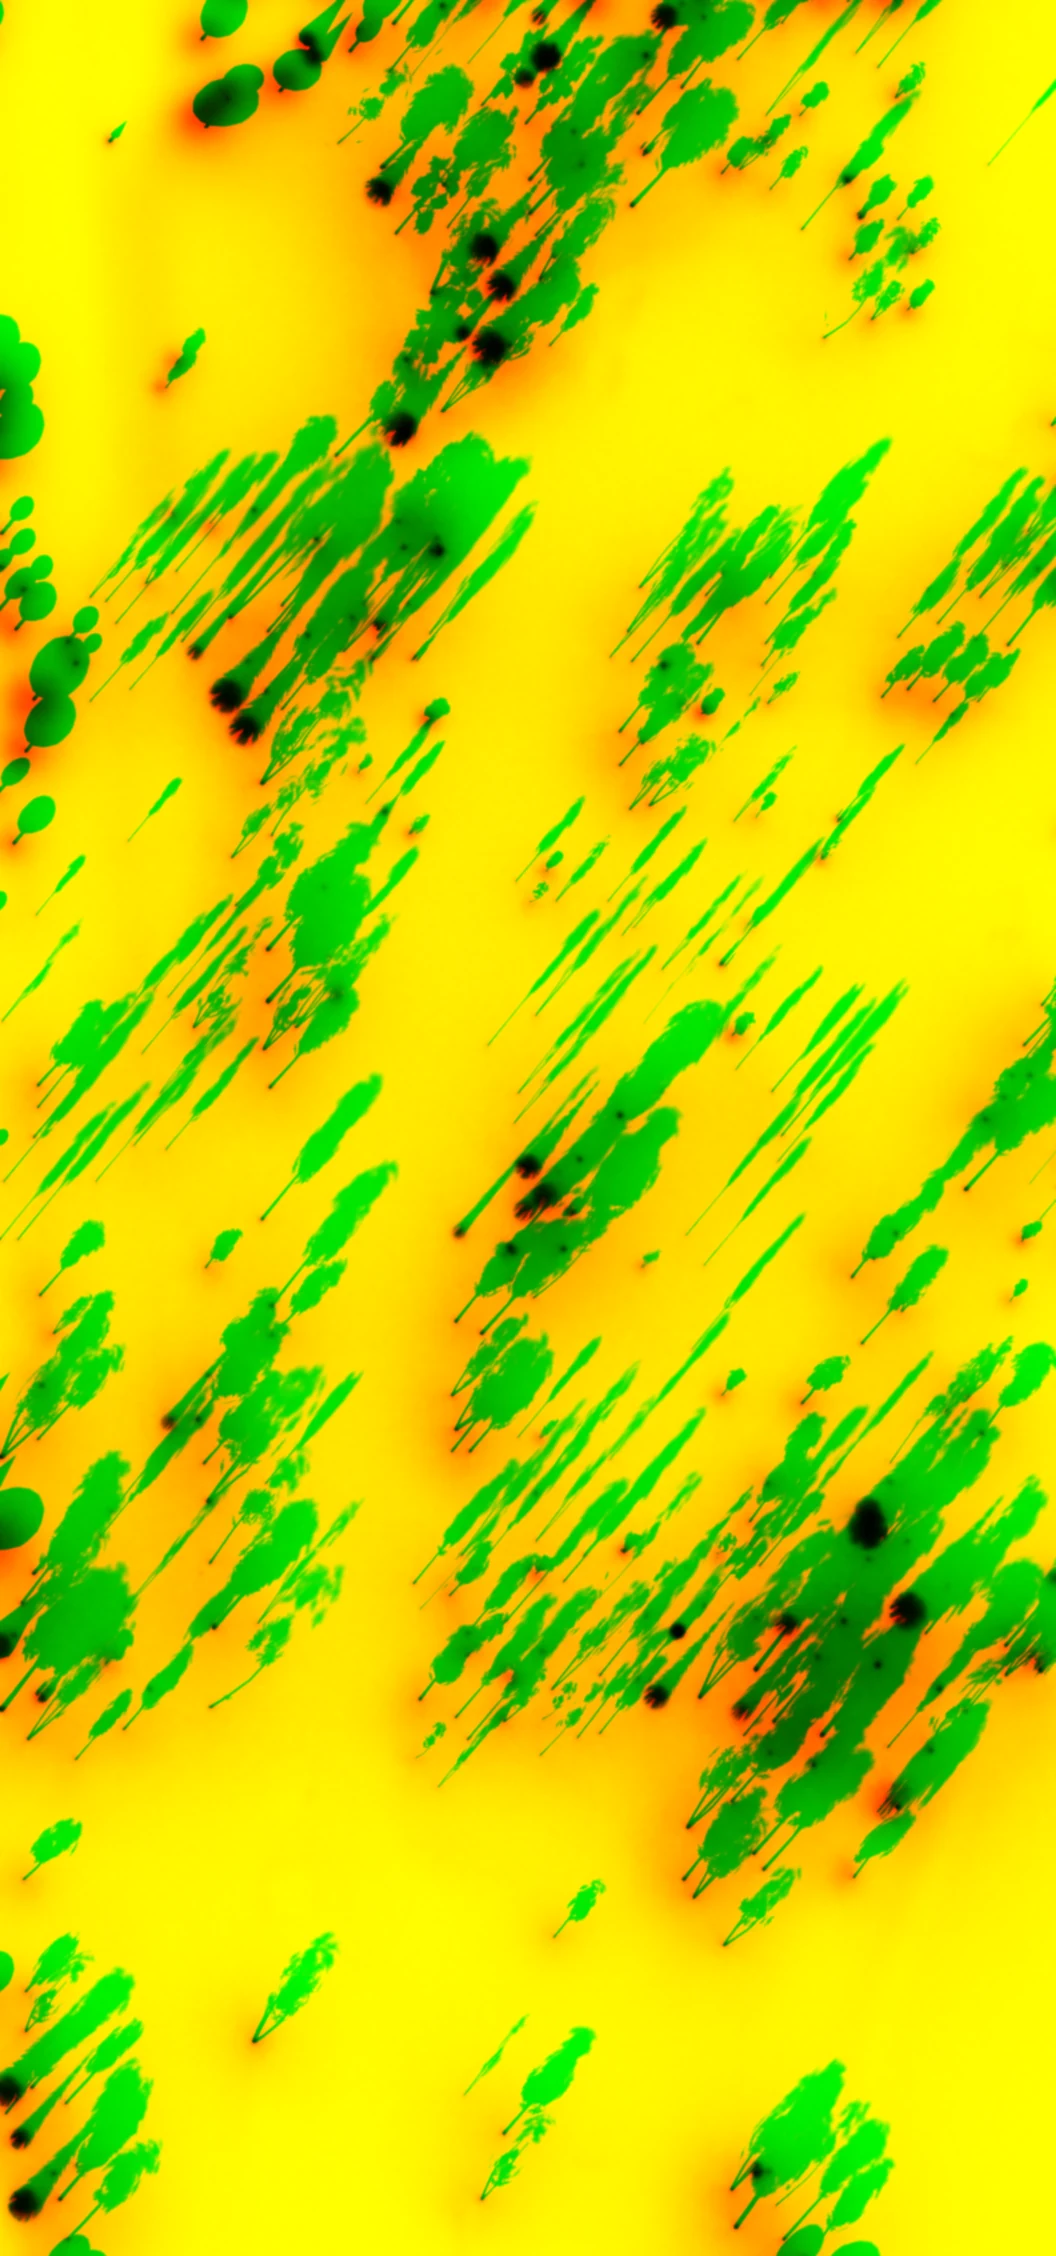
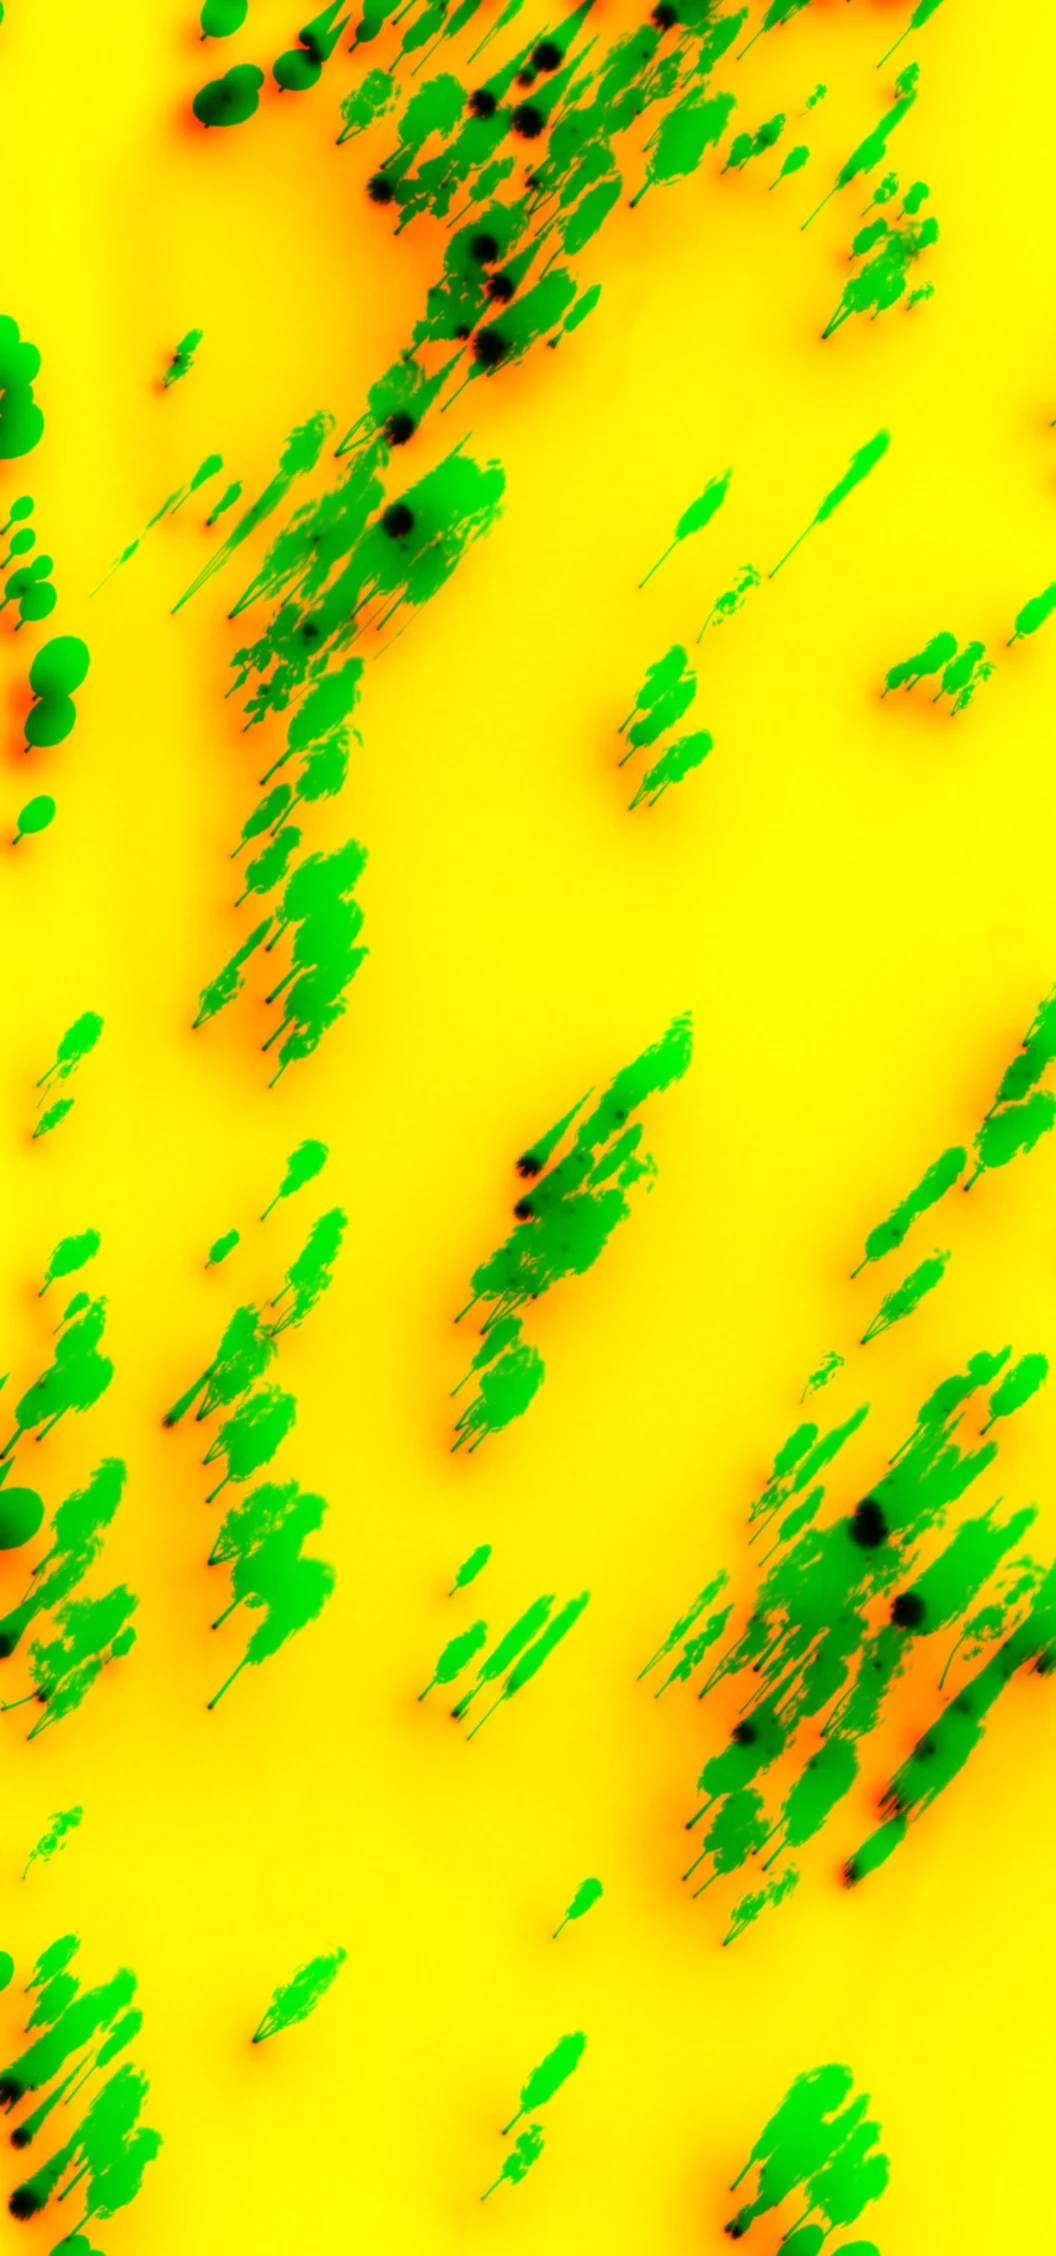
Blender light rebaked with the measured trees: jacks

diff --git a/index.html b/index.html
@@ -2,7 +2,7 @@
 <html lang="en">
 <head>
 <meta charset="utf-8">
-<meta name="gg-build" content="755242a7eb">
+<meta name="gg-build" content="960bd513f9">
 <meta name="viewport" content="width=device-width,initial-scale=1,viewport-fit=cover">
 <meta name="apple-mobile-web-app-capable" content="yes">
 <meta name="mobile-web-app-capable" content="yes">
@@ -1082,7 +1082,7 @@ window.THREE={ACESFilmicToneMapping:et,AddEquation:y,AddOperation:J,AdditiveAnim
 <script src="data/COURSE_IMG.js?v=23a6e18ef6"></script>
 <!-- /data files -->
 <!-- game code: tools/datafiles.py (the game is in src/) -->
-<script>(function(){var P=["src/start.js?v=d8ceba60e2","src/clubs-and-surfaces.js?v=175a1b0163","src/hole-construction-from-the.js?v=2abe9d5bd9","src/terrain-height.js?v=a37f63fe87","src/terrain-texture.js?v=a3e96548c6","src/lighting-shared-by-every.js?v=cd5a62476a","src/realism.js?v=aa16e80b0d","src/surroundings.js?v=74bd8e969d","src/built-things.js?v=f98fc21593","src/sky-dome.js?v=1c137437ce","src/webgl-ground.js?v=5d371faab8","src/state.js?v=0620065d3e","src/sound.js?v=e6a171fee3","src/ui-helpers.js?v=101dacc8d1","src/flow.js?v=395fe450d7","src/save-file.js?v=73a0901dda","src/daily-round.js?v=bb0fdaa373","src/a-golfer-s-daily.js?v=999de9775c","src/menu.js?v=58010d20df","src/pause-screen-and-feedback.js?v=b5ab620041","src/v107-help-and-faq.js?v=73740ead25","src/course-requests.js?v=1b264636bf","src/career.js?v=8c56e6444d","src/golfers.js?v=ac0e2525f8","src/match-state.js?v=7a407e7535","src/the-rival-s-shot.js?v=aedfc0dd26","src/career-screens.js?v=834dde70da","src/camera.js?v=72b4256890","src/3d-meshes.js?v=031d0e6eb9","src/divots.js?v=5d712295af","src/feel.js?v=cc5f67f75b","src/render.js?v=bbfcd83bef","src/choosing-a-golfer.js?v=59f6ffe37b","src/arm-ik.js?v=a254fdde50","src/real-tree-positions-from.js?v=0488c42a77","src/shader-patches-shared-by.js?v=1d67bace22","src/ground.js?v=95a21c663d","src/sky.js?v=cb305a137b","src/weather.js?v=1fc7d09e82","src/per-hole-scene-content.js?v=8522a6ceff","src/immediate-mode-primitives.js?v=0052447815","src/camera-straight-from-v.js?v=1bad554182","src/post-chain.js?v=d105739265","src/hud.js?v=49f3bf64c8","src/loop.js?v=25bd5af309","src/saved-shots.js?v=57bf3fbf0a","src/input.js?v=768869bb54","src/home-screen.js?v=124d004c02","src/sizing.js?v=67b1e861b4","src/boot.js?v=364c778f34"],t="",i,x;for(i=0;i<P.length;i++){x=new XMLHttpRequest();x.open("GET",P[i],false);x.send();if(x.status!==200&&x.status!==0)throw new Error("game code: could not load "+P[i]);t+=x.responseText;}var s=document.createElement("script");s.text="\n"+t+"//# sourceURL=game.js\n";document.currentScript.after(s);})();</script>
+<script>(function(){var P=["src/start.js?v=d8ceba60e2","src/clubs-and-surfaces.js?v=175a1b0163","src/hole-construction-from-the.js?v=2abe9d5bd9","src/terrain-height.js?v=a37f63fe87","src/terrain-texture.js?v=a3e96548c6","src/lighting-shared-by-every.js?v=cd5a62476a","src/realism.js?v=aa16e80b0d","src/surroundings.js?v=74bd8e969d","src/built-things.js?v=f98fc21593","src/sky-dome.js?v=1c137437ce","src/webgl-ground.js?v=5d371faab8","src/state.js?v=0620065d3e","src/sound.js?v=e6a171fee3","src/ui-helpers.js?v=101dacc8d1","src/flow.js?v=395fe450d7","src/save-file.js?v=73a0901dda","src/daily-round.js?v=cb2434a302","src/a-golfer-s-daily.js?v=999de9775c","src/menu.js?v=58010d20df","src/pause-screen-and-feedback.js?v=b5ab620041","src/v107-help-and-faq.js?v=73740ead25","src/course-requests.js?v=1b264636bf","src/career.js?v=8c56e6444d","src/golfers.js?v=ac0e2525f8","src/match-state.js?v=7a407e7535","src/the-rival-s-shot.js?v=aedfc0dd26","src/career-screens.js?v=834dde70da","src/camera.js?v=72b4256890","src/3d-meshes.js?v=031d0e6eb9","src/divots.js?v=5d712295af","src/feel.js?v=cc5f67f75b","src/render.js?v=bbfcd83bef","src/choosing-a-golfer.js?v=59f6ffe37b","src/arm-ik.js?v=a254fdde50","src/real-tree-positions-from.js?v=0488c42a77","src/shader-patches-shared-by.js?v=1d67bace22","src/ground.js?v=95a21c663d","src/sky.js?v=cb305a137b","src/weather.js?v=1fc7d09e82","src/per-hole-scene-content.js?v=8522a6ceff","src/immediate-mode-primitives.js?v=0052447815","src/camera-straight-from-v.js?v=1bad554182","src/post-chain.js?v=d105739265","src/hud.js?v=49f3bf64c8","src/loop.js?v=25bd5af309","src/saved-shots.js?v=57bf3fbf0a","src/input.js?v=768869bb54","src/home-screen.js?v=124d004c02","src/sizing.js?v=67b1e861b4","src/boot.js?v=364c778f34"],t="",i,x;for(i=0;i<P.length;i++){x=new XMLHttpRequest();x.open("GET",P[i],false);x.send();if(x.status!==200&&x.status!==0)throw new Error("game code: could not load "+P[i]);t+=x.responseText;}var s=document.createElement("script");s.text="\n"+t+"//# sourceURL=game.js\n";document.currentScript.after(s);})();</script>
 <!-- /game code -->
 
 <script>/* What's New. Add the newest update at the TOP of UPDATES; its id must be new each time. */

diff --git a/src/daily-round.js b/src/daily-round.js
@@ -79,7 +79,7 @@ function b10K(){const c=b10On()&&typeof B10BAKE!=='undefined'&&B10BAKE.courses?B
   if(c&&typeof tlOn==='function'&&tlOn()!==!!c.mt)return null;   // light baked with other trees than the ones standing (measured vs photo): live shadows instead
   return c&&c.holes?c.holes[G.hi]||null:null;}   // this hole's baked light (b: bounds, png)
 function b10Hole(){return !!b10K();}
-function b10Load(done){const L=['b10/bake.js?v=46','b10/trees.js?v=3'];window.B10LEAF='b10/leaves.webp?v=1';let n=L.length;for(const s of L){const e=document.createElement('script');e.src=s;e.onload=e.onerror=()=>{if(--n===0)done();};document.head.appendChild(e);}}
+function b10Load(done){const L=['b10/bake.js?v=47','b10/trees.js?v=3'];window.B10LEAF='b10/leaves.webp?v=1';let n=L.length;for(const s of L){const e=document.createElement('script');e.src=s;e.onload=e.onerror=()=>{if(--n===0)done();};document.head.appendChild(e);}}
 function b10Trees(P){const dec=(s,T)=>{const b=atob(s),u=new Uint8Array(b.length);for(let i=0;i<b.length;i++)u[i]=b.charCodeAt(i);return new T(u.buffer);};
   const arr=(r,st)=>{const Pp=dec(r.P,Int16Array),N=dec(r.N,Int8Array),C=dec(r.C,Uint8Array),U=r.U?dec(r.U,Int16Array):null,o=new Array(r.n*st);
     for(let i=0;i<r.n;i++){const k=i*st;o[k]=Pp[i*3]/1000;o[k+1]=Pp[i*3+1]/1000;o[k+2]=Pp[i*3+2]/1000;o[k+3]=N[i*3]/127;o[k+4]=N[i*3+1]/127;o[k+5]=N[i*3+2]/127;

diff --git a/sw.js b/sw.js
@@ -1,6 +1,6 @@
 /* Golf Go offline cache. The page is checked online first (so updates show straight away) and falls back to the copy on
    this phone; course data carries a version tag (?v=…) and is kept until it changes; leaderboards always go to the network. */
-const V='ca1661659b',B='755242a7eb',CORE='core-'+V,ASSETS='assets';
+const V='5129a8392e',B='960bd513f9',CORE='core-'+V,ASSETS='assets';
 const CORE_FILES=['./','index.html','manifest.webmanifest','icon-192.png','icon-512.png','apple-touch-icon.png'];
 const DATA=["greens.js?v=db85f90c53", "ground.js?v=4a589b8b73", "trees.js?v=53447b0f2a", "char%20ch12.js?v=lg2", "char%20remy.js?v=lg2", "char%20ch01.js?v=lg2", "char_ch08.js?v=lg2", "char_ch42.js?v=lg2", "char_ch23.js?v=lg2", "char%20ch28.js?v=lg2", "char_mx_joe.js?v=lg2", "char_ch17.js?v=lg2", "char_mh_tyger.js?v=m4", "char_mh_jack.js?v=m4", "char_mh_arnie.js?v=m4", "char_mh_phil.js?v=m4", "char_mh_rory.js?v=m4", "char_mh_scotty.js?v=m4", "char_mh_seve.js?v=m4", "char_mh_barry.js?v=m4", "char_mh_hoagan.js?v=m4", "char_mh_payne.js?v=m4"];   // current versioned data files
 const PRE=[];   // publish build: the shared graphics files (a/ga_*.js?v=…), saved at install so even the first launch offline works
